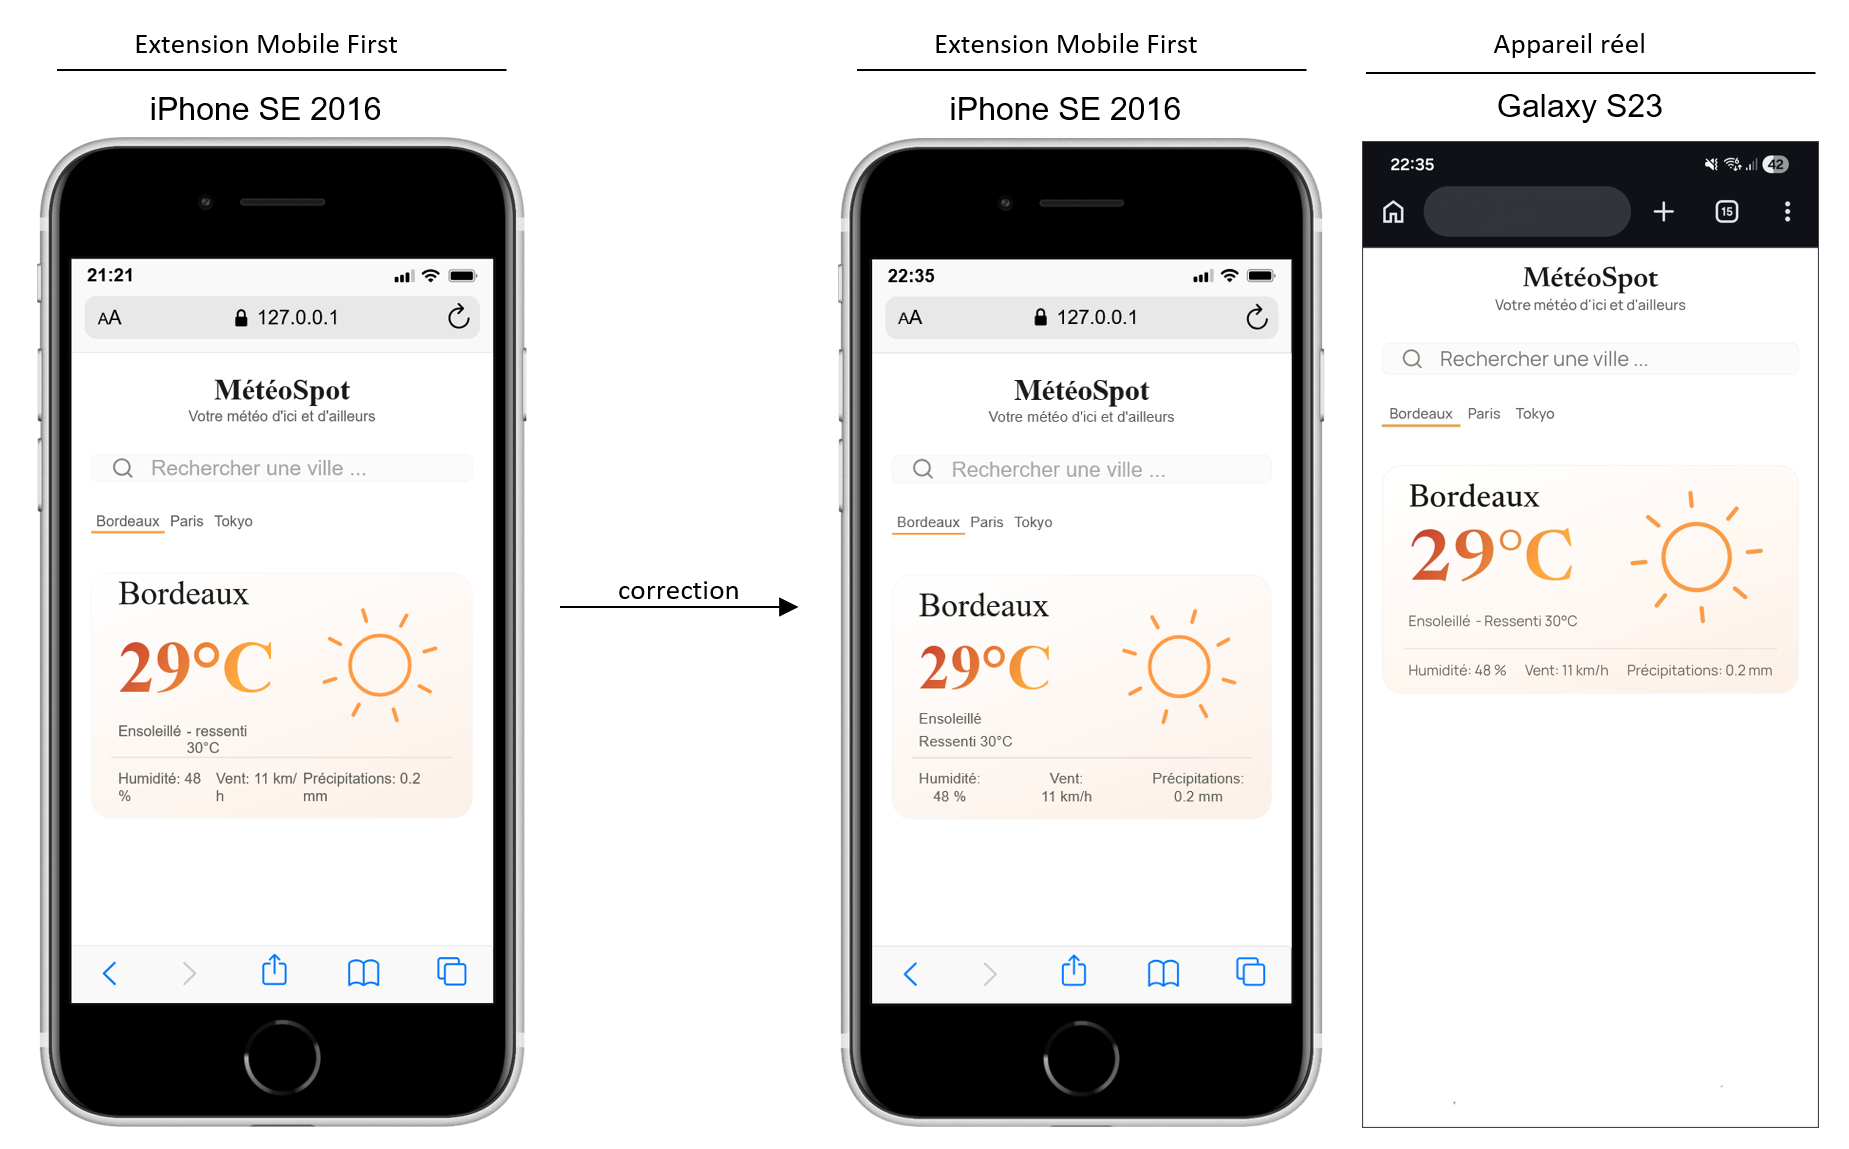
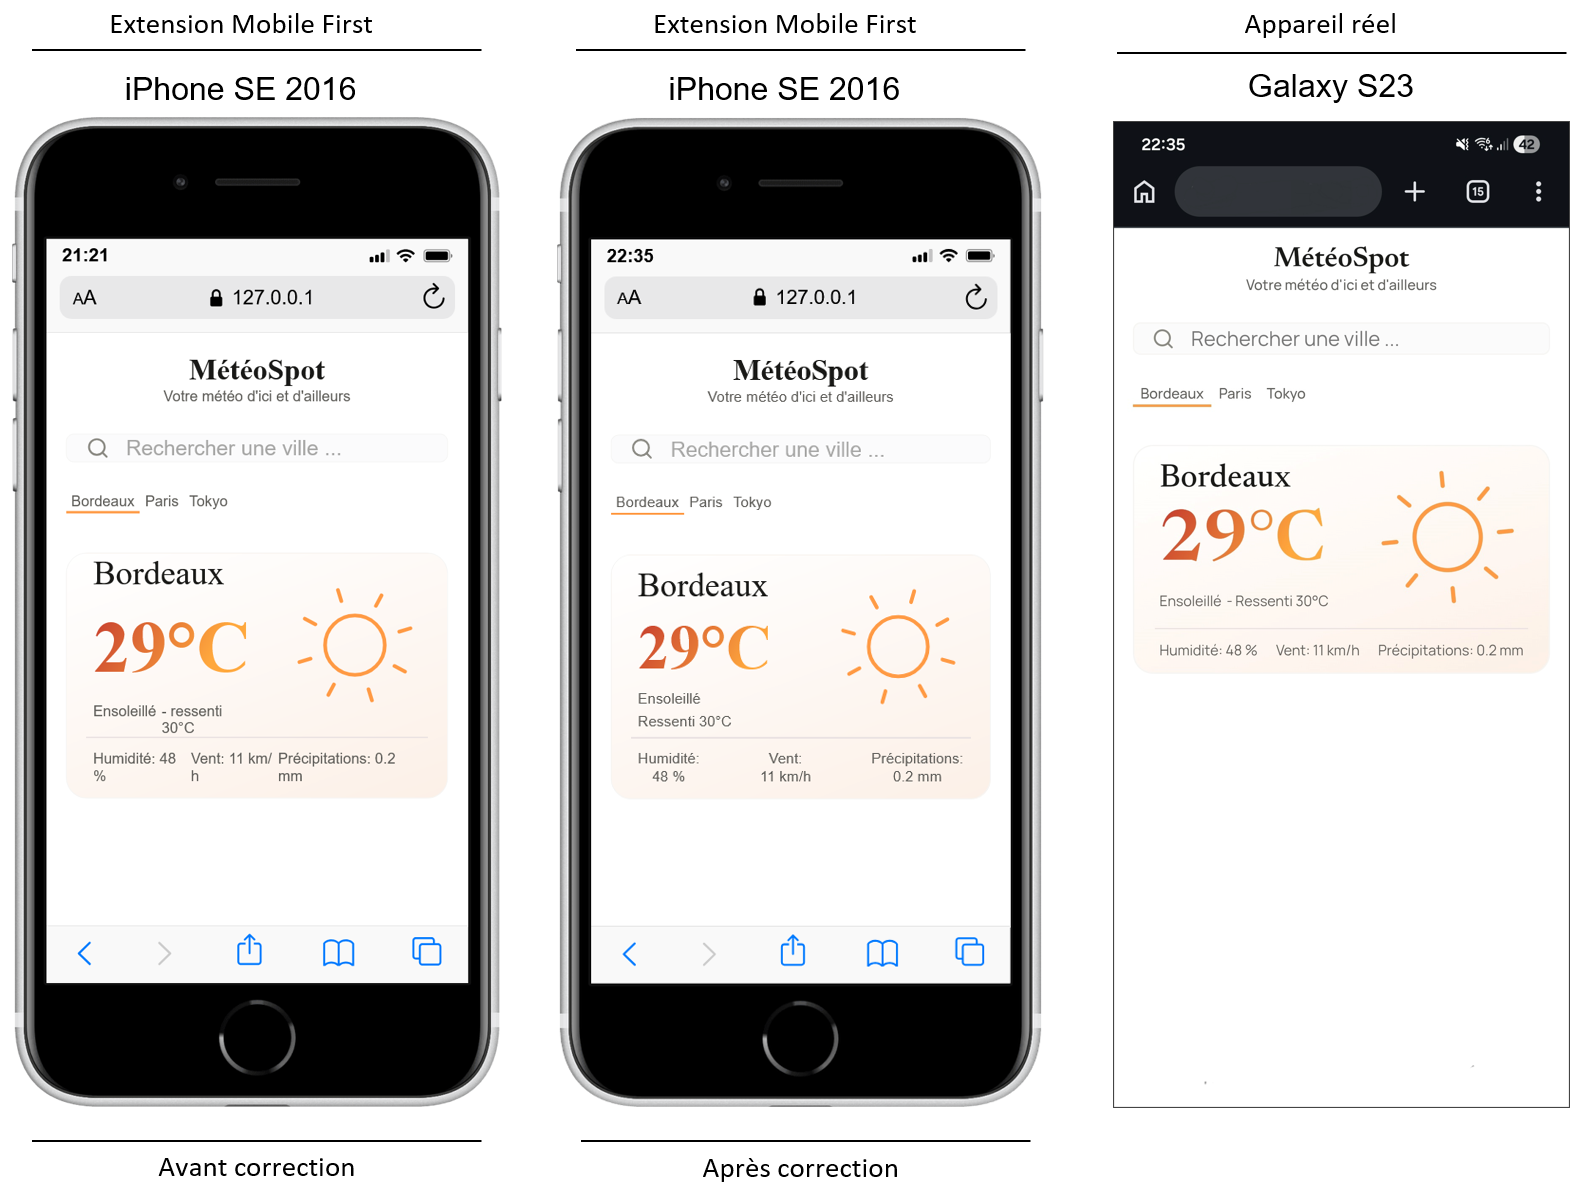
docs: mise à jour README progress avec rendu visuel prévisions horaires

diff --git a/docs/progress/README.md b/docs/progress/README.md
@@ -29,6 +29,10 @@ Rendu visuel avec le bloc météo actuelle et la correction du décalage de l'on
 
 **Correctif apporté après cette capture** : modification de la disposition des éléments dans le fichier main.js et création d'une média query CSS dédiée afin d'améliorer le rendu esthétique de l'application sur petits écrans, sans perte d'informations. [voir la capture](3_app-T4-visuel-meteo-actuelle.png).
 
+## Ticket #5 - Bloc prévisions horaires avec données statiques
+
+Rendu visuel avec l'ajout du bloc prévisions haoraires. Pour s'adapter à la taille des écrans, une barre de scroll horizontal a été mise en place, et masquée à l'affichage pour éviter une surcharge visuelle. [voir la capture](4_app-T5-visuel-previsions-horaires.png)
+
 ---
 
 ## Convention de nommage
